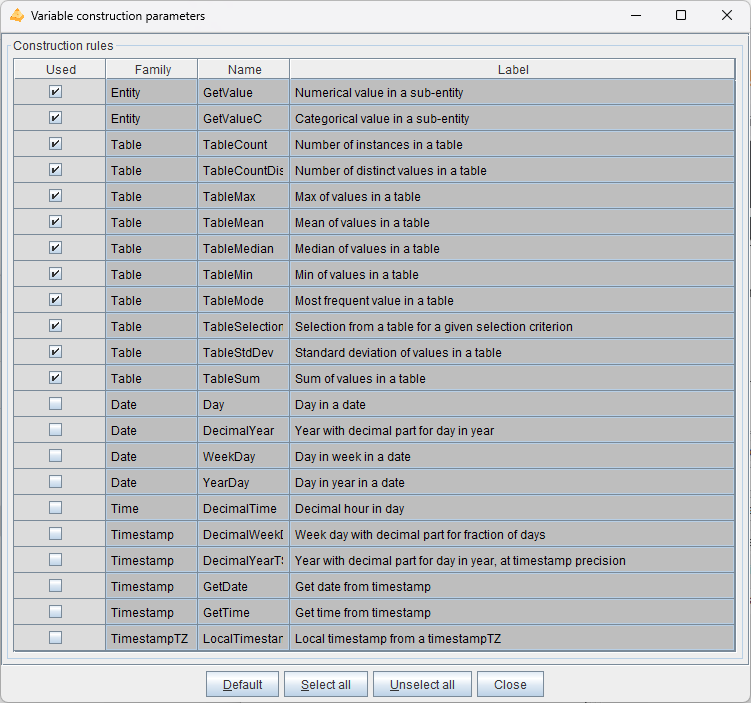
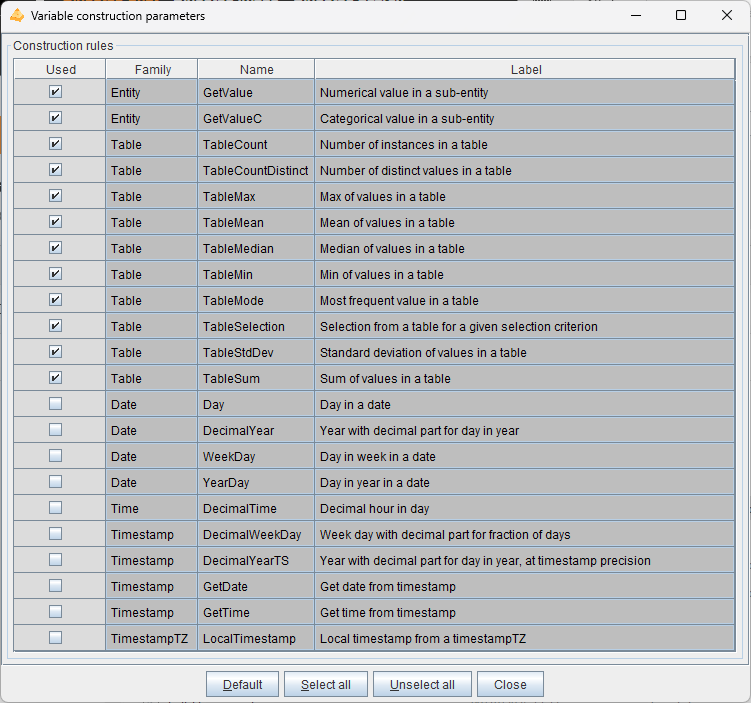
Fix #140: DecimalWeekDay and WeekDay no information

diff --git a/docs/ui-docs/khiops.md b/docs/ui-docs/khiops.md
@@ -264,6 +264,9 @@ Automatic variable construction exploits the set of construction rules specified
 
 ![](../assets/images-khiops-guides/khiops/VariableConstructionParameters.png)
 
+For details on each construction rule, see the related derivation rule. For example, to learn about WeekDay, visit
+[`WeekDay`](../api-docs/kdic/date-rules.md/#weekday).
+
 !!! warning
 
     The construction rules applied to Date, Time, Timestamps or TimestampsTZ variables enable the extraction of numerical values at various periodicities 
